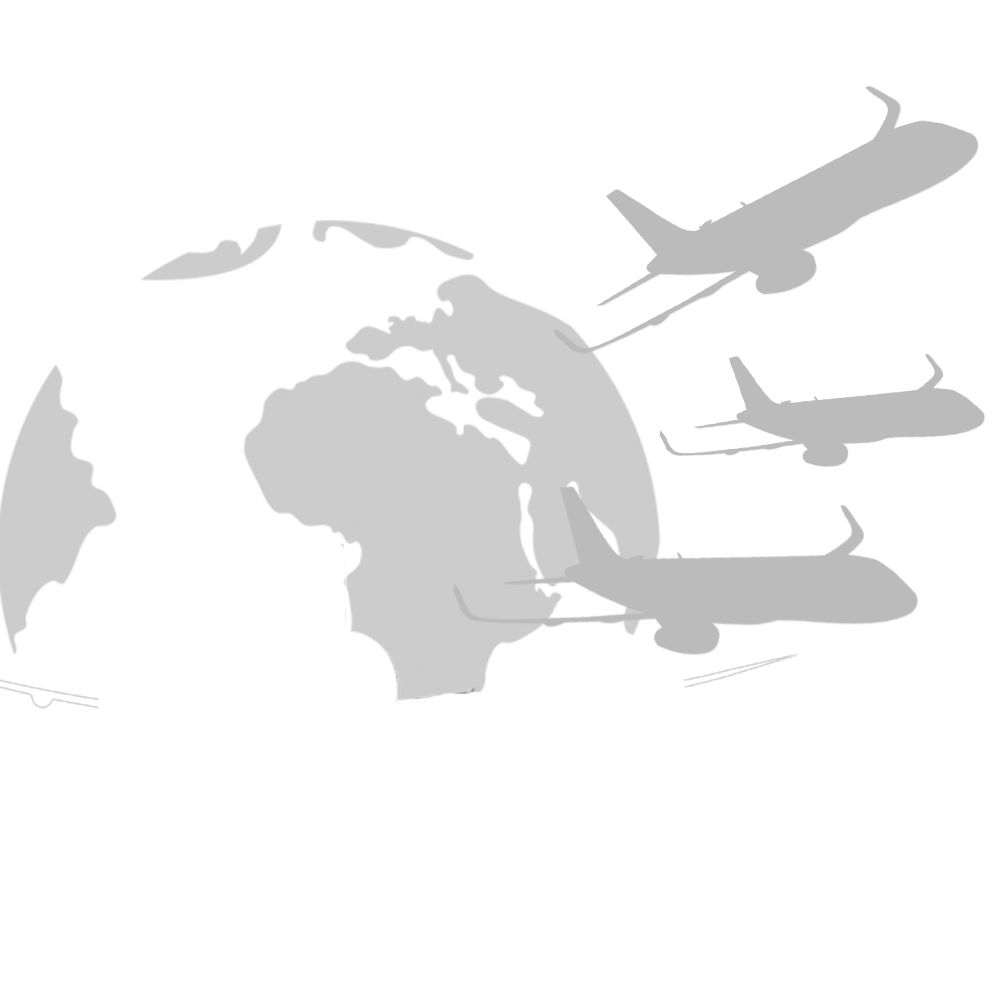
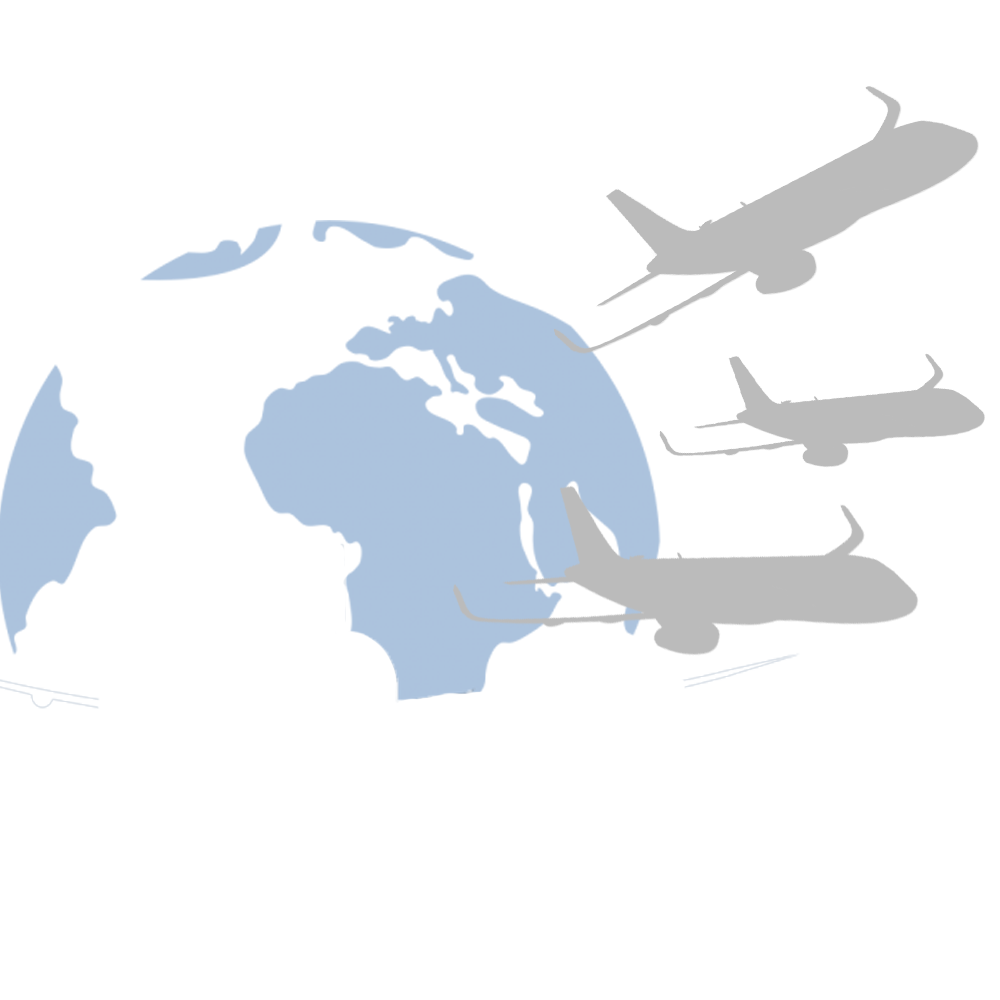
Changed colors of sections

diff --git a/index.html b/index.html
@@ -16,7 +16,7 @@
 </head>
 
 <body class="bg-light">
-    <nav class="navbar navbar-expand-lg sticky-top navbar-dark bg-dark shadow p-3 mb-5">
+    <nav class="navbar navbar-expand-lg sticky-top navbar-dark bg-info shadow p-3 mb-5">
         <div class="container-fluid">
             <a class="navbarImage" href="#">
                 <img src="images/NewRamUnSmall.png" class="img-fluid navbarlogo" alt="R.A.M. Unlimited Logo">
@@ -62,7 +62,7 @@
         <div class="product-device product-device-2 shadow-sm d-none d-md-block headerImageTwo"></div>
     </div>
     <div class="d-md-flex flex-md-equal w-100 my-md-3 pl-md-3">
-        <div class="bg-dark mr-md-3 pt-3 px-3 pt-md-5 px-md-5 text-center text-white overflow-hidden" id="catalog">
+        <div class="bg-info mr-md-3 pt-3 px-3 pt-md-5 px-md-5 text-center text-white overflow-hidden" id="catalog">
             <div class="my-3 py-3">
                 <h2 class="display-5">Browse Our Full Catalog</h2>
                 <p class="lead">We have over 300 completely customizable items.</p>
@@ -106,7 +106,7 @@
             <div class="bg-dark shadow-sm mx-auto" style="width: 80%; height: 300px; border-radius: 21px 21px 0 0;">
             </div>
         </div> -->
-        <div class="bg-secondary mr-md-3 pt-3 px-3 pt-md-5 text-center text-white overflow-hidden" id="request_products">
+        <div class="bg-dark mr-md-3 pt-3 px-3 pt-md-5 text-center text-white overflow-hidden" id="request_products">
             <div class="my-3 py-3">
                 <h2 class="display-5">Order Products Or Request Quote</h2>
                 <p class="lead orderText">Browse our Catalog of over 300 items or submit a <a class="paraLink"
